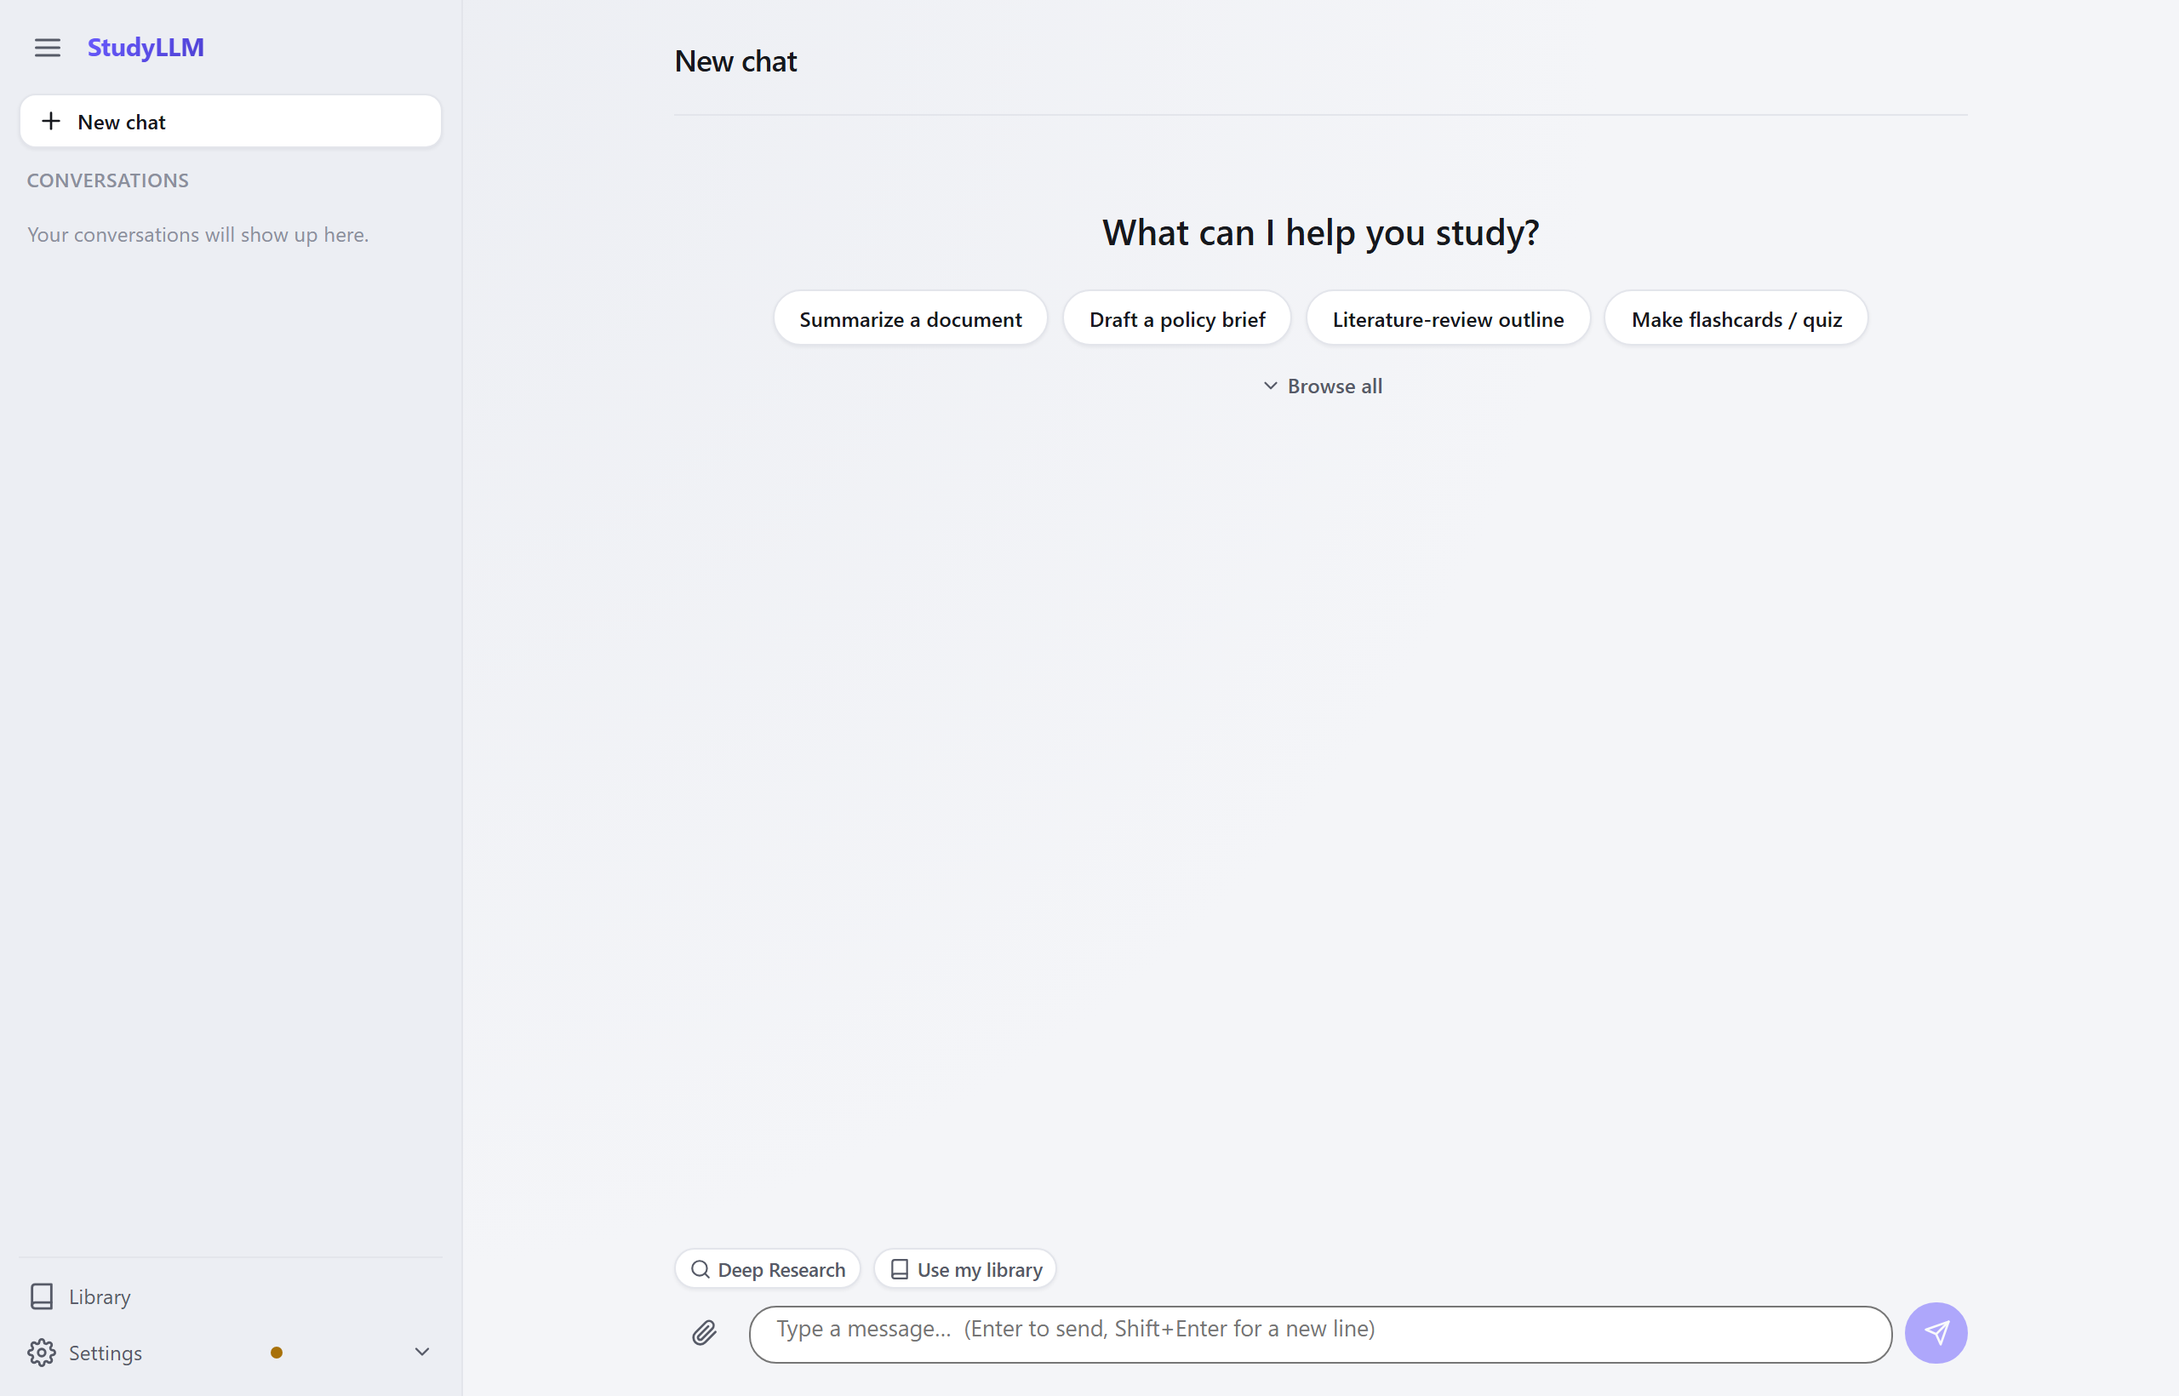
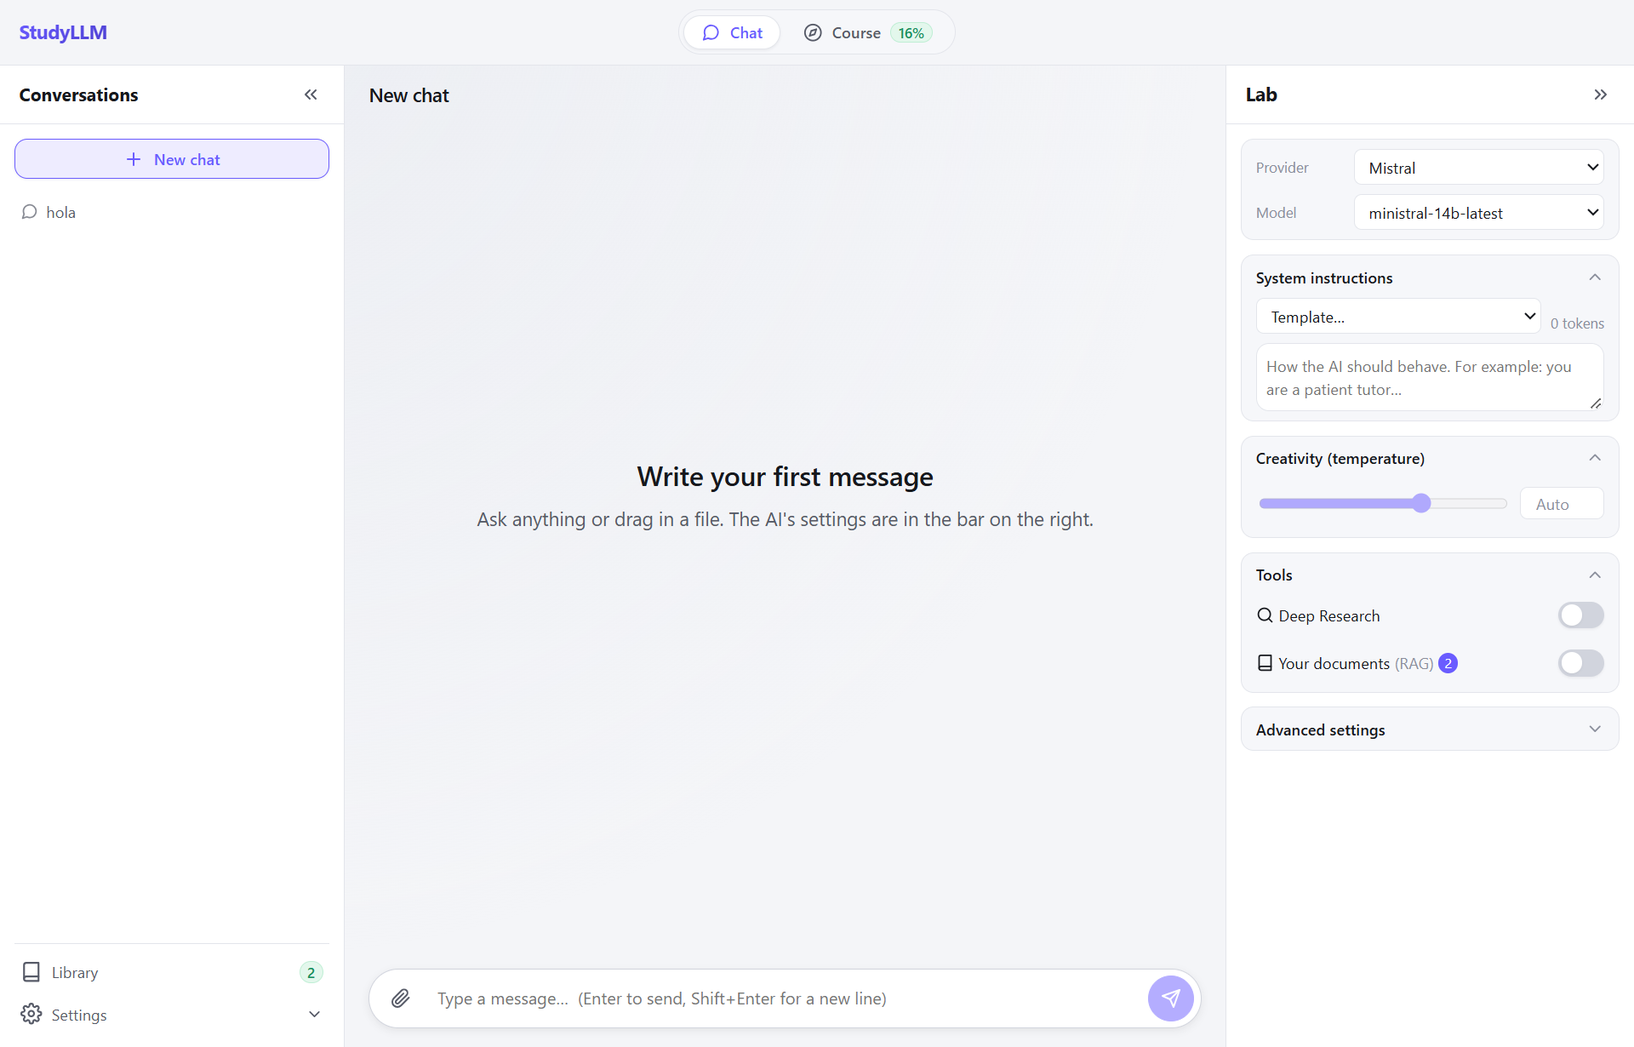
docs(site): cover Course, Lab bar, OmniRoute, Drive writes and library/RAG; retake screenshots

diff --git a/docs/index.html b/docs/index.html
@@ -313,7 +313,7 @@
         <p data-i18n="f2_p">Pon más de una clave y la app cambia sola en cuanto una se queda sin cupo.</p>
       </div>
       <div class="feature">
-        <span class="emoji">🎓</span>
+        <span class="emoji">🎛</span>
         <h3 data-i18n="f3_h">Modos de estudio</h3>
         <p data-i18n="f3_p">Resume una lectura, explica un tema, esquematiza un trabajo o crea tarjetas de repaso, con prompts listos para no empezar desde cero.</p>
       </div>
@@ -346,6 +346,21 @@
         <span class="emoji">💻</span>
         <h3 data-i18n="f9_h">En tu ordenador</h3>
         <p data-i18n="f9_p">Instaladores nativos para Windows, macOS y Linux. Sin pestañas de navegador ni cuentas nuevas.</p>
+      </div>
+      <div class="feature">
+        <span class="emoji">🧭</span>
+        <h3 data-i18n="f10_h">Un curso dentro de la app</h3>
+        <p data-i18n="f10_p">Once módulos interactivos que explican cómo funciona la IA.</p>
+      </div>
+      <div class="feature">
+        <span class="emoji">🛰</span>
+        <h3 data-i18n="f11_h">Modo OmniRoute</h3>
+        <p data-i18n="f11_p">Un enrutador local gestiona las claves por ti.</p>
+      </div>
+      <div class="feature">
+        <span class="emoji">🔬</span>
+        <h3 data-i18n="f12_h">Investigación profunda</h3>
+        <p data-i18n="f12_p">La IA busca y lee varias fuentes antes de responder.</p>
       </div>
     </div>
   </div>
@@ -396,6 +411,36 @@
       </div>
       <div class="showcase-shot">
         <img src="screenshots/plugins.png" data-i18n-alt="shot_plugins" alt="Conectar una cuenta de Google en StudyLLM" />
+      </div>
+    </div>
+
+    <div class="showcase reverse">
+      <div class="showcase-text">
+        <h3 data-i18n="sc6_h">Aprende cómo funciona la IA mientras la usas</h3>
+        <p data-i18n="sc6_p">El curso integrado tiene once módulos con ejercicios dentro de la propia app.</p>
+      </div>
+      <div class="showcase-shot">
+        <img src="screenshots/course.png" data-i18n-alt="shot_course" alt="El curso de StudyLLM" />
+      </div>
+    </div>
+
+    <div class="showcase">
+      <div class="showcase-text">
+        <h3 data-i18n="sc7_h">Chatea con tus documentos, con fuentes</h3>
+        <p data-i18n="sc7_p">La IA responde usando solo tu biblioteca y cita los pasajes.</p>
+      </div>
+      <div class="showcase-shot">
+        <img src="screenshots/rag-chat.png" data-i18n-alt="shot_rag" alt="Respuesta con fuentes de la biblioteca" />
+      </div>
+    </div>
+
+    <div class="showcase reverse">
+      <div class="showcase-text">
+        <h3 data-i18n="sc8_h">Tu biblioteca, a la vista</h3>
+        <p data-i18n="sc8_p">Mira cómo se agrupan tus pasajes por tema.</p>
+      </div>
+      <div class="showcase-shot">
+        <img src="screenshots/library-map.png" data-i18n-alt="shot_library" alt="Mapa de la biblioteca" />
       </div>
     </div>
   </div>
@@ -496,7 +541,7 @@
       nav_explore: "Cómo funciona",
       nav_look: "Capturas",
       hero_h1: "Estudia con IA<br />sin pagar una suscripción.",
-      hero_sub: "Pon tus propias claves gratuitas y StudyLLM va alternando entre ellas para que no te quedes bloqueado. Suelta tus apuntes y lecturas, elige un modo de estudio, añade herramientas de investigación y guarda tu trabajo cuando termines.",
+      hero_sub: "Pon tus propias claves gratuitas y StudyLLM va alternando entre ellas para que no te quedes bloqueado. Suelta tus apuntes y lecturas, ajusta cómo se comporta la IA, añade herramientas de investigación y aprende cómo funciona todo con un curso dentro de la propia app.",
       dl_win: "Descargar para Windows",
       dl_mac: "Descargar para macOS",
       dl_linux: "Descargar para Linux",
@@ -507,8 +552,8 @@
       f1_p: "Usa claves gratuitas de proveedores como Google Gemini, Mistral o Groq. No hace falta pagar ChatGPT Plus ni Claude Pro.",
       f2_h: "Sin límites molestos",
       f2_p: "Pon más de una clave y la app cambia sola en cuanto una se queda sin cupo.",
-      f3_h: "Modos de estudio",
-      f3_p: "Resume una lectura, explica un tema, esquematiza un trabajo o crea tarjetas de repaso, con prompts listos para no empezar desde cero.",
+      f3_h: "Tu propio laboratorio",
+      f3_p: "Una barra lateral siempre a mano: elige proveedor y modelo, dale instrucciones a la IA (con plantillas como «tutor cercano») y ajusta su creatividad.",
       f4_h: "Tus propios archivos",
       f4_p: "Arrastra un PDF, un documento de Word o tus apuntes al chat y la IA los lee: tratados, artículos, lecturas, lo que estés trabajando.",
       f5_h: "Herramientas de investigación",
@@ -516,7 +561,7 @@
       f6_h: "Guarda tu trabajo",
       f6_p: "Convierte cualquier conversación en Markdown o guárdala directamente en un Google Doc cuando quieras entregarla.",
       f7_h: "Conecta tu cuenta de Google",
-      f7_p: "Deja que la IA trabaje con tu Gmail, Calendar, Tasks, Drive, Docs y Sheets. Inicias sesión con Google y apruebas tú cualquier cosa que envíe o cambie datos.",
+      f7_p: "Deja que la IA trabaje con tu Gmail, Calendar, Tasks, Drive, Docs y Sheets, incluso creando y editando archivos en Drive. Inicias sesión con Google y tú decides, herramienta a herramienta, qué se permite.",
       f8_h: "Privado",
       f8_p: "Las claves se guardan en el llavero seguro de tu sistema. Los chats van directos de tu ordenador al proveedor de IA, sin ningún servidor de StudyLLM en medio.",
       f9_h: "En tu ordenador",
@@ -526,9 +571,9 @@
       sc1_h: "Suelta tus lecturas",
       sc1_p: "Arrastra un PDF, un documento de Word o tus apuntes al chat. StudyLLM saca el texto para que la IA lo resuma, responda preguntas o te señale las fechas y los nombres clave, sin copiar y pegar párrafos enteros.",
       sc2_h: "Investiga y cita, ya integrado",
-      sc2_p: "Añade herramientas listas para usar en un par de clics: leer cualquier enlace, buscar en Wikipedia o consultar literatura académica. Cada herramienta muestra un distintivo de confianza claro y la mayoría no necesita cuenta ni clave.",
+      sc2_p: "Añade herramientas listas para usar en un par de clics: leer cualquier enlace, buscar en la web, ver transcripciones de YouTube, consultar Wikipedia o literatura académica, e incluso conectar Obsidian o Zotero. Los resultados se ordenan por confianza y popularidad, cada herramienta muestra un distintivo claro y la mayoría no necesita cuenta ni clave.",
       sc3_h: "Trae tu cuenta de Google",
-      sc3_p: "Conecta Google una vez y la IA puede ayudarte con tu Gmail, Calendar, Tasks, Drive, Docs y Sheets. Inicias sesión directamente con Google — StudyLLM nunca ve tu contraseña — y todo lo que envíe un correo o cambie un archivo te pide permiso antes. ¿Terminaste un borrador? Expórtalo a Markdown o guárdalo directo en un Google Doc.",
+      sc3_p: "Conecta Google una vez y la IA puede ayudarte con tu Gmail, Calendar, Tasks, Drive, Docs y Sheets, también para crear carpetas y archivos en Drive. Inicias sesión directamente con Google — StudyLLM nunca ve tu contraseña — y para cada herramienta eliges si se ejecuta sola, pregunta antes o se desactiva. ¿Terminaste un borrador? Expórtalo a Markdown o guárdalo directo en un Google Doc.",
       explore_heading: "Mira cómo funciona por dentro",
       explore_sub: "«Chatear con tus documentos» no es una caja negra. Abre el explorador, escribe una pregunta y observa, paso a paso, cómo la IA encuentra y puntúa los pasajes correctos de tu biblioteca.",
       xp1_h: "El proceso, paso a paso",
@@ -540,7 +585,7 @@
       look_heading: "Cómo se pone en marcha",
       look_sub: "Listo en menos de un minuto, y luego a darle trabajo de verdad a la IA.",
       sc4_h: "Añade tus claves, gratis",
-      sc4_p: "Abre Proveedores, elige un plan gratuito recomendado como Google Gemini o Mistral y pega una clave: estás chateando en segundos, sin tarjeta y sin cuenta con StudyLLM. Añade un segundo o tercer proveedor y la app alterna entre ellos sola.",
+      sc4_p: "Abre Proveedores, elige un plan gratuito recomendado como Google Gemini o Mistral y pega una clave: estás chateando en segundos, sin tarjeta y sin cuenta con StudyLLM. Añade un segundo o tercer proveedor y la app alterna entre ellos sola. ¿Prefieres no gestionar claves? Cambia a OmniRoute y un enrutador local se encarga por ti.",
       sc5_h: "Dale herramientas a la IA",
       sc5_p: "Activa el acceso a una carpeta o busca más herramientas en el catálogo. Cada llamada a una herramienta se ve claramente en la conversación, y tú decides por herramienta si se ejecuta sola, pregunta antes o se bloquea.",
       cta_heading: "Descárgalo y ponte a estudiar",
@@ -555,7 +600,22 @@
       shot_plugins: "Conectar una cuenta de Google en StudyLLM",
       shot_explore: "El explorador de recuperación de StudyLLM: pasos del proceso, ranking de similitud y mapa del espacio de embeddings",
       shot_settings: "Añadir un proveedor en el panel de StudyLLM",
-      shot_mcp: "El panel de herramientas MCP de StudyLLM"
+      shot_mcp: "El panel de herramientas MCP de StudyLLM",
+      f10_h: "Un curso dentro de la app",
+      f10_p: "Once módulos interactivos que explican cómo funciona la IA — claves, tokens, herramientas, tus documentos — con ejercicios que haces en la propia app y progreso guardado.",
+      f11_h: "Modo OmniRoute",
+      f11_p: "¿Sin ganas de gestionar claves? StudyLLM descarga y arranca un enrutador local que las administra por ti. Cambias entre tus claves y OmniRoute con un interruptor.",
+      f12_h: "Investigación profunda",
+      f12_p: "Activa un interruptor y la IA busca, lee varias fuentes y responde con calma en lugar de contestar de memoria, mostrando cada paso.",
+      sc6_h: "Aprende cómo funciona la IA mientras la usas",
+      sc6_p: "El curso integrado tiene once módulos con capturas anotadas y tarjetas de tarea que son el propio ejercicio: chats incrustados, formularios de configuración, calculadoras y pequeños cuestionarios. Desde «qué es un chat de IA» hasta cómo responder desde tus documentos o automatizar tareas con herramientas.",
+      shot_course: "El curso de StudyLLM: módulo sobre hacer que la IA responda desde tus documentos",
+      sc7_h: "Chatea con tus documentos, con fuentes",
+      sc7_p: "Activa «Tus documentos» en el Laboratorio y la IA responde usando solo tu biblioteca. Cada respuesta empieza mostrando los pasajes que se usaron y cuánto se parecen a tu pregunta, y cita de cuál sale cada dato.",
+      sc8_h: "Tu biblioteca, a la vista",
+      sc8_p: "Cada documento se corta en pasajes y se convierte en una huella numérica. Ábrelos para ver su «huella» o mira el mapa de tu biblioteca: los temas parecidos quedan juntos y los distintos, lejos.",
+      shot_rag: "Una respuesta de StudyLLM con los pasajes de la biblioteca que usó como fuentes",
+      shot_library: "El mapa de la biblioteca de StudyLLM, con los pasajes agrupados por tema"
     },
     en: {
       __title: "StudyLLM — free AI for studying",
@@ -565,7 +625,7 @@
       nav_explore: "How it works",
       nav_look: "Screenshots",
       hero_h1: "Study with AI,<br />without paying for a subscription.",
-      hero_sub: "Bring your own free-tier keys and StudyLLM rotates between them so you don't get stuck. Drop in your notes and readings, pick a study mode, add research tools, and save your work when you're done.",
+      hero_sub: "Bring your own free-tier keys and StudyLLM rotates between them so you don't get stuck. Drop in your notes and readings, tune how the AI behaves, add research tools, and learn how it all works with a course built into the app.",
       dl_win: "Download for Windows",
       dl_mac: "Download for macOS",
       dl_linux: "Download for Linux",
@@ -576,8 +636,8 @@
       f1_p: "Use free keys from providers like Google Gemini, Mistral, or Groq. No need to pay for ChatGPT Plus or Claude Pro.",
       f2_h: "No annoying limits",
       f2_p: "Add more than one key and the app switches on its own the moment one runs dry.",
-      f3_h: "Study modes",
-      f3_p: "Summarize a reading, explain a topic, outline an essay, or make flashcards — ready-made prompts so you never start from a blank box.",
+      f3_h: "Your own lab",
+      f3_p: "A sidebar always at hand: pick the provider and model, give the AI instructions (with templates like “friendly tutor”) and adjust its creativity.",
       f4_h: "Your own files",
       f4_p: "Drag a PDF, a Word document, or your notes into the chat and the AI reads it: treaties, articles, readings, whatever you're working with.",
       f5_h: "Research tools",
@@ -585,7 +645,7 @@
       f6_h: "Save your work",
       f6_p: "Turn any conversation into Markdown or save it straight to a Google Doc when you're ready to hand it in.",
       f7_h: "Connect your Google account",
-      f7_p: "Let the AI work with your Gmail, Calendar, Tasks, Drive, Docs, and Sheets. You sign in with Google and approve anything that sends or changes data.",
+      f7_p: "Let the AI work with your Gmail, Calendar, Tasks, Drive, Docs, and Sheets — even creating and editing files in Drive. You sign in with Google and decide, tool by tool, what's allowed.",
       f8_h: "Private",
       f8_p: "Keys live in your system's secure keychain. Chats go straight from your computer to the AI provider — no StudyLLM server in between.",
       f9_h: "On your computer",
@@ -595,9 +655,9 @@
       sc1_h: "Drop in your readings",
       sc1_p: "Drag a PDF, a Word document, or your notes straight into the chat. StudyLLM pulls out the text so the AI can summarize it, answer questions, or pull out the key dates and names — no copy-pasting walls of text.",
       sc2_h: "Research and cite, built in",
-      sc2_p: "Add ready-to-use tools in a couple of clicks: read any web link, look things up on Wikipedia, or search academic literature. Every tool shows a clear trust badge, and most need no account or key at all.",
+      sc2_p: "Add ready-to-use tools in a couple of clicks: read any web link, search the web, pull YouTube transcripts, look things up on Wikipedia or academic literature, or even connect Obsidian or Zotero. Results are ranked by trust and popularity, every tool shows a clear badge, and most need no account or key at all.",
       sc3_h: "Bring your Google account",
-      sc3_p: "Connect Google once and the AI can help with your Gmail, Calendar, Tasks, Drive, Docs, and Sheets. You sign in with Google directly — StudyLLM never sees your password — and anything that sends an email or changes a file asks for your approval first. Finished a draft? Export it to Markdown or save it straight to a Google Doc.",
+      sc3_p: "Connect Google once and the AI can help with your Gmail, Calendar, Tasks, Drive, Docs, and Sheets, including creating folders and files in Drive. You sign in with Google directly — StudyLLM never sees your password — and for each tool you choose whether it runs automatically, asks first, or is switched off. Finished a draft? Export it to Markdown or save it straight to a Google Doc.",
       explore_heading: "See how it works under the hood",
       explore_sub: "“Chatting with your documents” isn't a black box. Open the explorer, type a question, and watch — step by step — how the AI finds and scores the right passages from your library.",
       xp1_h: "The process, step by step",
@@ -609,7 +669,7 @@
       look_heading: "How to get started",
       look_sub: "Set up in under a minute, then give the AI real work to do.",
       sc4_h: "Add your keys, for free",
-      sc4_p: "Open Providers, pick a recommended free tier like Google Gemini or Mistral, and paste in a key — you're chatting in seconds, no card and no account with StudyLLM. Add a second or third provider and the app fails over between them automatically.",
+      sc4_p: "Open Providers, pick a recommended free tier like Google Gemini or Mistral, and paste in a key — you're chatting in seconds, no card and no account with StudyLLM. Add a second or third provider and the app fails over between them automatically. Rather not manage keys? Switch to OmniRoute and a local router handles them for you.",
       sc5_h: "Give the AI tools to work with",
       sc5_p: "Turn on access to a folder, or browse the catalog for more tools. Every tool call is shown clearly in the conversation, and you decide per-tool whether it runs automatically, asks first, or is denied.",
       cta_heading: "Download it and get studying",
@@ -624,7 +684,22 @@
       shot_plugins: "Connecting a Google account in StudyLLM",
       shot_explore: "The StudyLLM retrieval explorer: pipeline steps, similarity ranking, and embedding-space map",
       shot_settings: "Adding a provider in the StudyLLM panel",
-      shot_mcp: "The StudyLLM MCP tools panel"
+      shot_mcp: "The StudyLLM MCP tools panel",
+      f10_h: "A course inside the app",
+      f10_p: "Eleven interactive modules explaining how AI works — keys, tokens, tools, your documents — with exercises you do in the app itself and progress that's saved.",
+      f11_h: "OmniRoute mode",
+      f11_p: "Don't want to manage keys? StudyLLM downloads and starts a local router that handles them for you. Flip a switch to move between your own keys and OmniRoute.",
+      f12_h: "Deep Research",
+      f12_p: "Flip a switch and the AI searches, reads several sources and answers carefully instead of from memory, showing every step.",
+      sc6_h: "Learn how AI works while you use it",
+      sc6_p: "The built-in course has eleven modules with annotated screenshots and task cards that are the exercise itself: embedded chats, setup forms, calculators and short quizzes. From “what a chat AI really is” to answering from your own documents or automating work with tools.",
+      shot_course: "The StudyLLM course: module on making the AI answer from your documents",
+      sc7_h: "Chat with your documents, with sources",
+      sc7_p: "Switch on “Your documents” in the Lab and the AI answers using only your library. Every answer opens with the passages it used and how closely each matches your question, and cites which one each fact comes from.",
+      sc8_h: "Your library at a glance",
+      sc8_p: "Each document is cut into passages and turned into a numeric fingerprint. Open them to see their “fingerprint”, or look at the map of your library: similar topics sit together and different ones far apart.",
+      shot_rag: "A StudyLLM answer showing the library passages it used as sources",
+      shot_library: "The StudyLLM library map, with passages grouped by topic"
     }
   };
 

diff --git a/PROJECT_STATUS.md b/PROJECT_STATUS.md
@@ -51,7 +51,7 @@ All five original phases are ✅ **done**. Current capabilities:
 | **Lab bar** — always-visible right-hand bar (minimized rail ⇄ expanded) laid out like Google AI Studio's run settings: provider + model pickers, system instructions, temperature slider, tools, advanced; replaced the in-composer Chat Lab and mode chips | Done |
 | **OmniRoute mode** — the app downloads, starts, stops and manages OmniRoute (and the provider keys inside it); an either/or switch against your own provider keys | Done |
 | CI + release pipeline (unsigned installers, draft release) | Done by design |
-| Onboarding wizard, crash log, marketing site (ES/EN) | Done |
+| Onboarding wizard, crash log, marketing site (ES/EN; covers Course, Lab bar, OmniRoute, Deep Research, Drive write tools, ranked Discover; screenshots retaken 2026-10-18 except `attachments.png`; library/RAG shots use demo documents) | Done |
 
 **Not started**: attachment phases 4–5 (images for vision models; OCR for scanned docs) — see
 "Deferred work" below.
